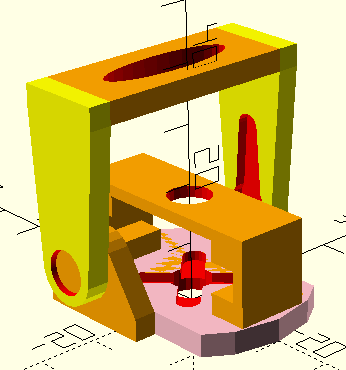
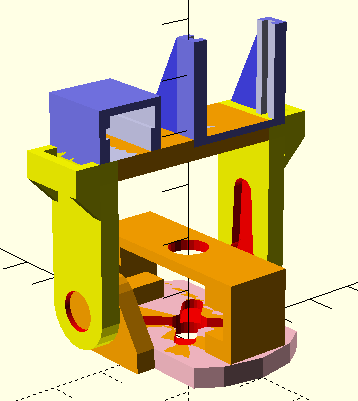
Body part doc update

diff --git a/body-parts/README.md b/body-parts/README.md
@@ -3,19 +3,21 @@ These models are made using OpenSCAD.
 
 ## Base / inside
 
-* **Grey** base frame
-* **Red/blue** snap-on to crawler
-* **Aqua** ultrasonic holders
-* **Yellow** addon holders
-* **Orange** addons for servo motor and PCBs
-* **Green** PCBs just for illustration
+* **Grey** base frame (`base.scad`)
+* **Red/blue** snap-on to crawler (`base_clip.scad`)
+* **Aqua** ultrasonic holders (`ultrasonic-holder.scad`)
+* **Yellow** addon holders (`addon_support.scad`)
+* **Orange** addons for servo motor and PCBs (`addon_servo.scad`, `addon_shield.scad`)
+* **Green** PCBs just for illustration (`pcb.scad`)
 
 ![base](base.png "Base")
 
 ## Head
-Just a servo-tilt for now.
-Will later have sockets for heat camera and PIR
-and addon holders for exterior case.
+Servo-tilt with sockets for the heat camera and the PIR sensor.
+Also addon holders for exterior case.
+
+* **Yellow/blue** tilt/pitch frame with heat camera and PIR (`head_tilt.scad`)
+* **Orange/pink** base/yaw holder for frame (`head_base.scad`)
 
 ![head](head.png "Head")
 

diff --git a/README.md b/README.md
@@ -1,5 +1,5 @@
 # Peek-a-boo
-**NOTE** *Very early in development, it does currently not work as intended*
+**NOTE** *Very early in development, it does currently not yet work as intended*
 
 A mobile robot that like to play hide-n-seek with you or just
 follow you around.
